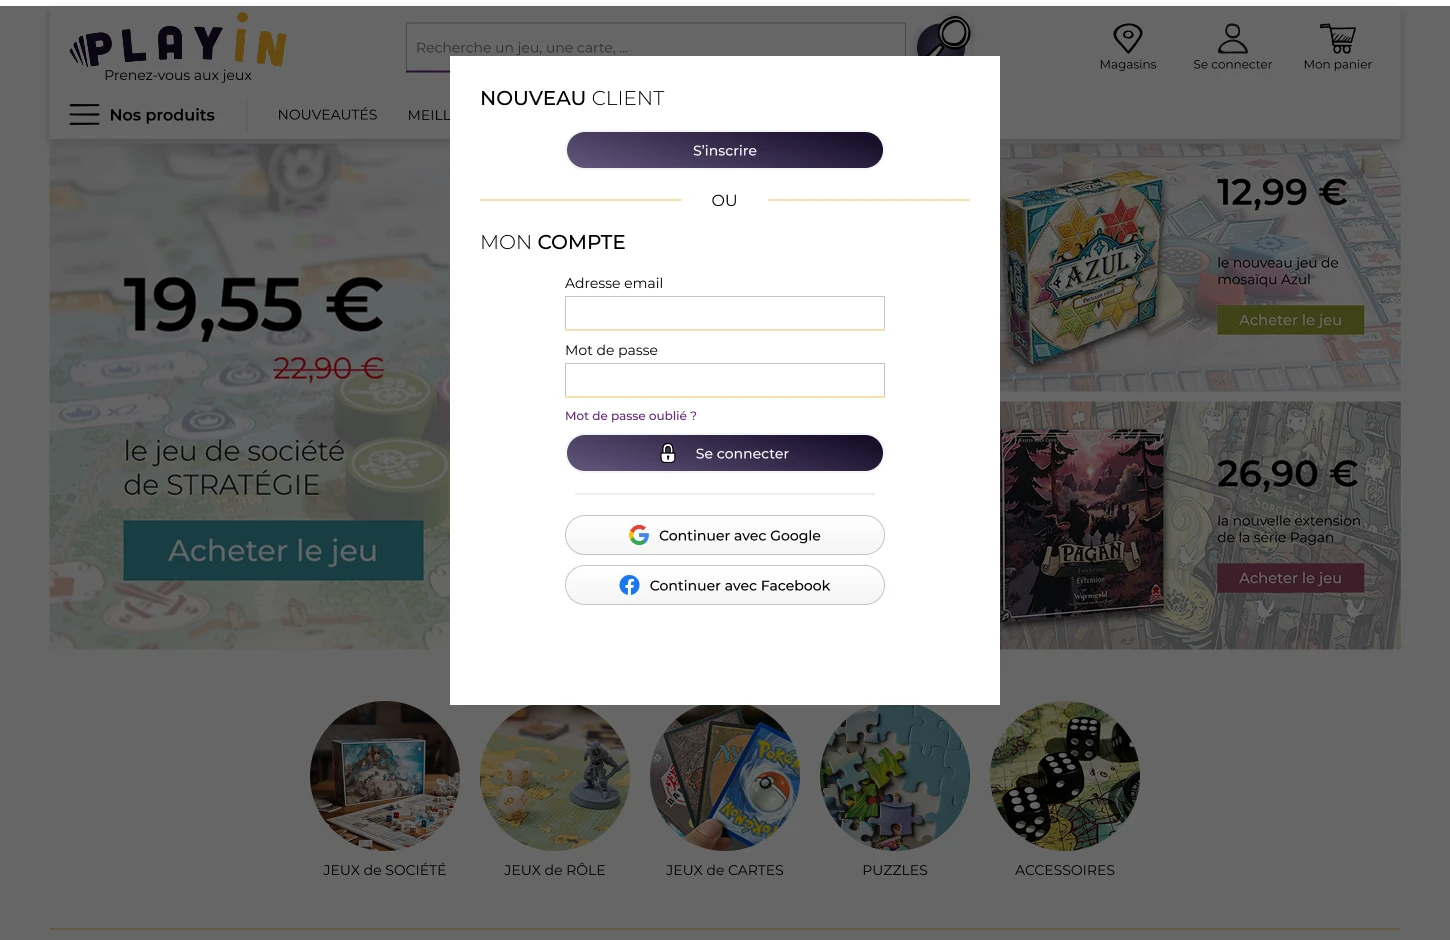
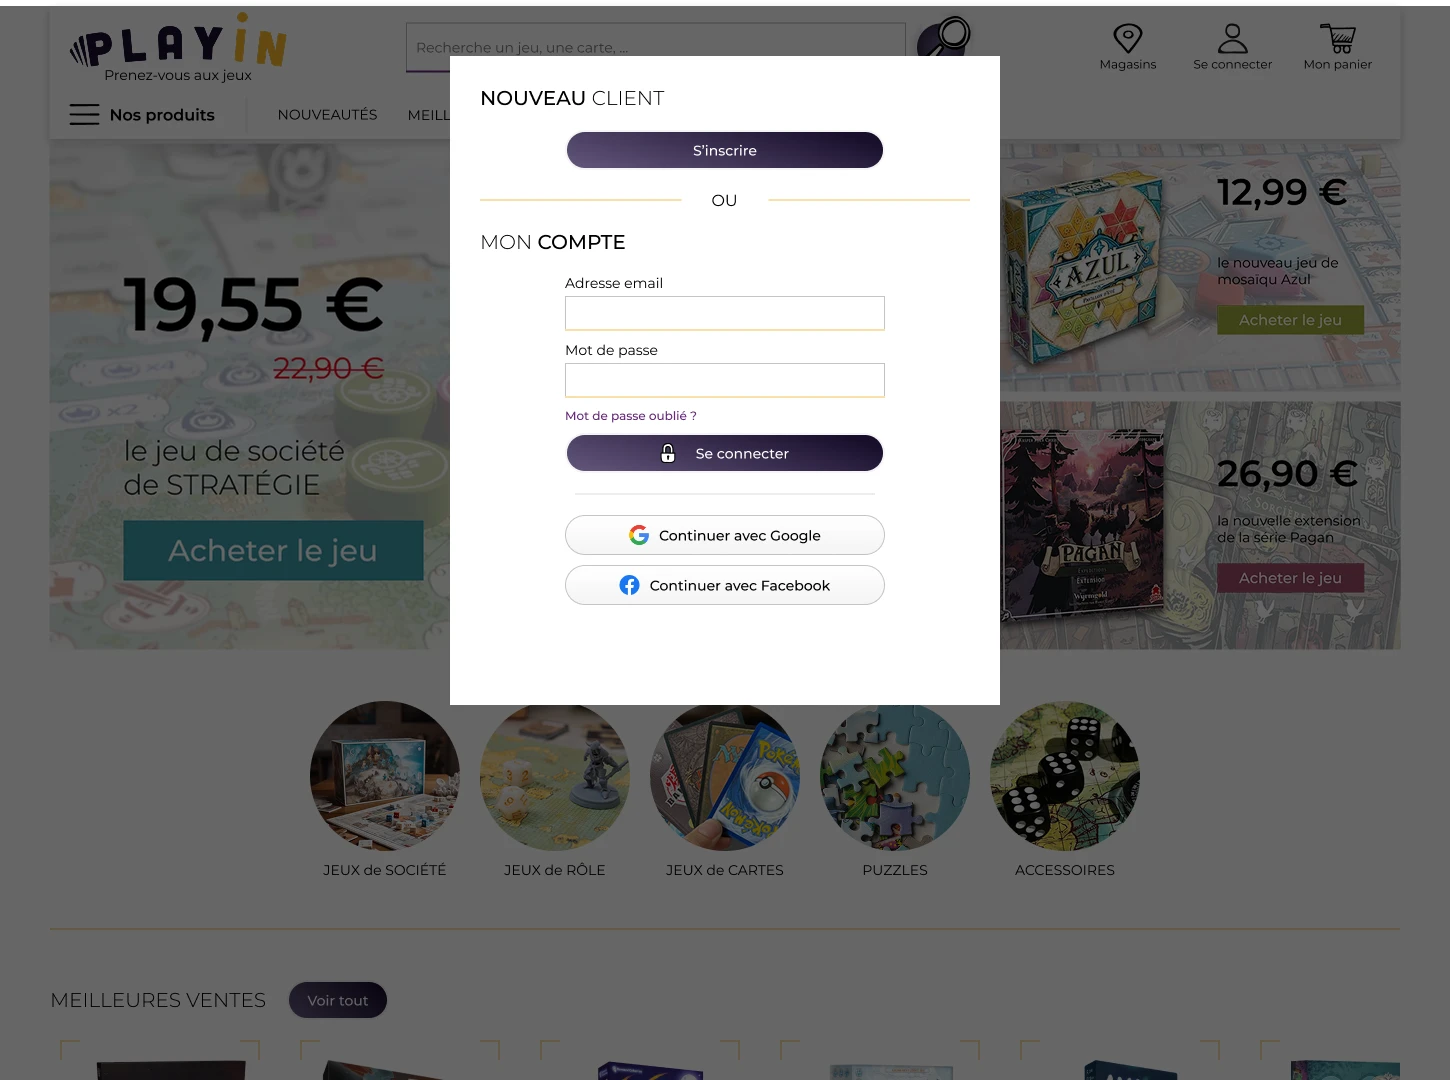
E-commerce : connexion à la même hauteur que le cadre du panier
Claude-Session: https://claude.ai/code/session_01THwdntjNiSuDEHoKbgxniL

diff --git a/projets/refonte-site-e-commerce-play-in/index.html b/projets/refonte-site-e-commerce-play-in/index.html
@@ -280,7 +280,7 @@
           </figure>
           <figure class="st-wf">
             <figcaption><span class="st-wf__num">06</span><strong>Connexion</strong>Se connecter ou créer un compte sans quitter la page</figcaption>
-            <div class="st-wf__col"><span class="st-wf__label">Desktop</span><div class="st-wf__img"><img src="../../assets/img/play-in-ecommerce/ui/connexion-d.webp" alt="Fenêtre de connexion : inscription, compte existant, Google et Facebook" width="1450" height="940" loading="lazy"></div></div>
+            <div class="st-wf__col"><span class="st-wf__label">Desktop</span><div class="st-wf__img"><img class="st-match-scroll" src="../../assets/img/play-in-ecommerce/ui/connexion-d.webp" alt="Fenêtre de connexion : inscription, compte existant, Google et Facebook" width="1450" height="1080" loading="lazy"></div></div>
           </figure>
         </div>
         <p class="st-note">Faites défiler les captures pour voir les pages en entier.</p>

diff --git a/assets/css/style.css b/assets/css/style.css
@@ -590,3 +590,5 @@ ul { padding: 0; list-style: none; }
 .st-wf--fill .st-wf__col { display: flex; flex-direction: column; }
 .st-wf--fill .st-wf__pair .st-scroll { flex: 1 1 0; height: 0; min-height: 420px; }
 @media (max-width: 1023px) { .st-wf--fill .st-wf__pair .st-scroll { flex: none; height: 420px; } }
+.st-wf__img img.st-match-scroll { height: 420px; object-fit: cover; object-position: top; }
+@media (max-width: 750px) { .st-wf__img img.st-match-scroll { height: 340px; } }
